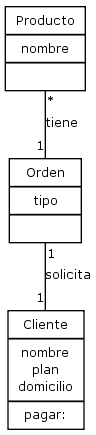
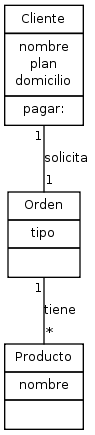
reparando la funcionalidad para definir relaciones.

Changed region(s): [[0.0421, 0.0, 0.9474, 1.0]]

diff --git a/quickdiagrams/main.py b/quickdiagrams/main.py
@@ -95,14 +95,18 @@ class Diagram:
         # TODO: delegar en otro método e incluir casos como Pez ~= peces.
         # ver diveintopython
         name = name.lower()
+        all_names = {}
 
-        if not self.nodes.has_key(name):
+        for x in self.nodes.keys():
+            all_names[x.lower()] = self.nodes[x][1]
+
+        if not all_names.has_key(name):
             name_without_last_word = name[:-1]
 
-            if self.nodes.has_key(name_without_last_word):
-                return self.nodes[name_without_last_word][1]
+            if all_names.has_key(name_without_last_word):
+                return all_names[name_without_last_word]
         
-        return self.nodes[name][1]
+        return all_names[name]
 
     def create_hierarchy_relationships(self):
         for key, value in self.nodes.items():
@@ -133,7 +137,7 @@ class Diagram:
                 self.add_warning_message(msg_error %(msg))
                 return
 
-            self.create_relation(rel.from_name, rel.to_name, rel)
+            self.create_relation(from_node, to_node, rel)
 
     def create_relation(self, from_node, to_node, rel):
         edge = self.digraph.add_edge(from_node, to_node, arrowtail='arrowhead',

diff --git a/examples/build_all.py b/examples/build_all.py
@@ -4,6 +4,7 @@ import quickdiagrams
 input_files = [x for x in os.listdir('./') if x.endswith('sc')]
 
 for file in input_files:
+    print "Procesando:", file
     diagram = quickdiagrams.Diagram()
     diagram.read(file)
 
